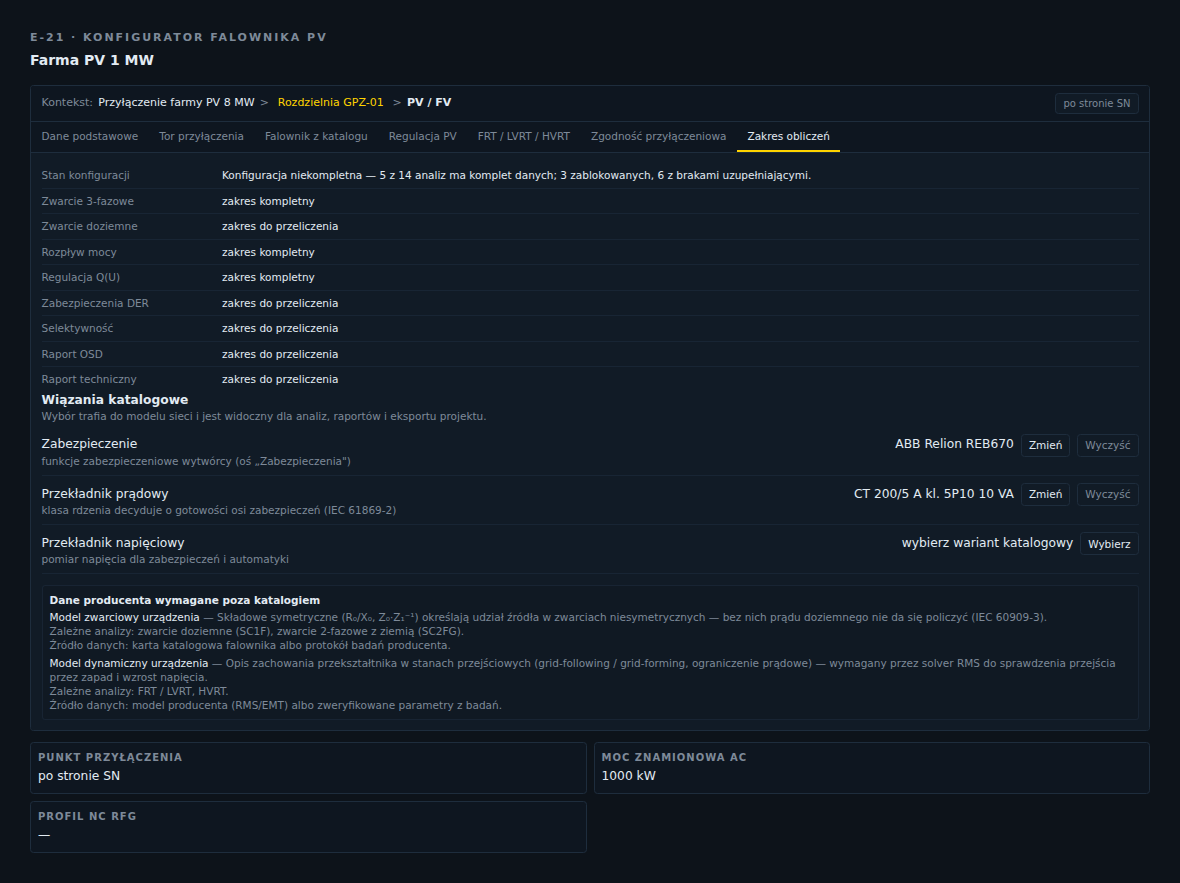
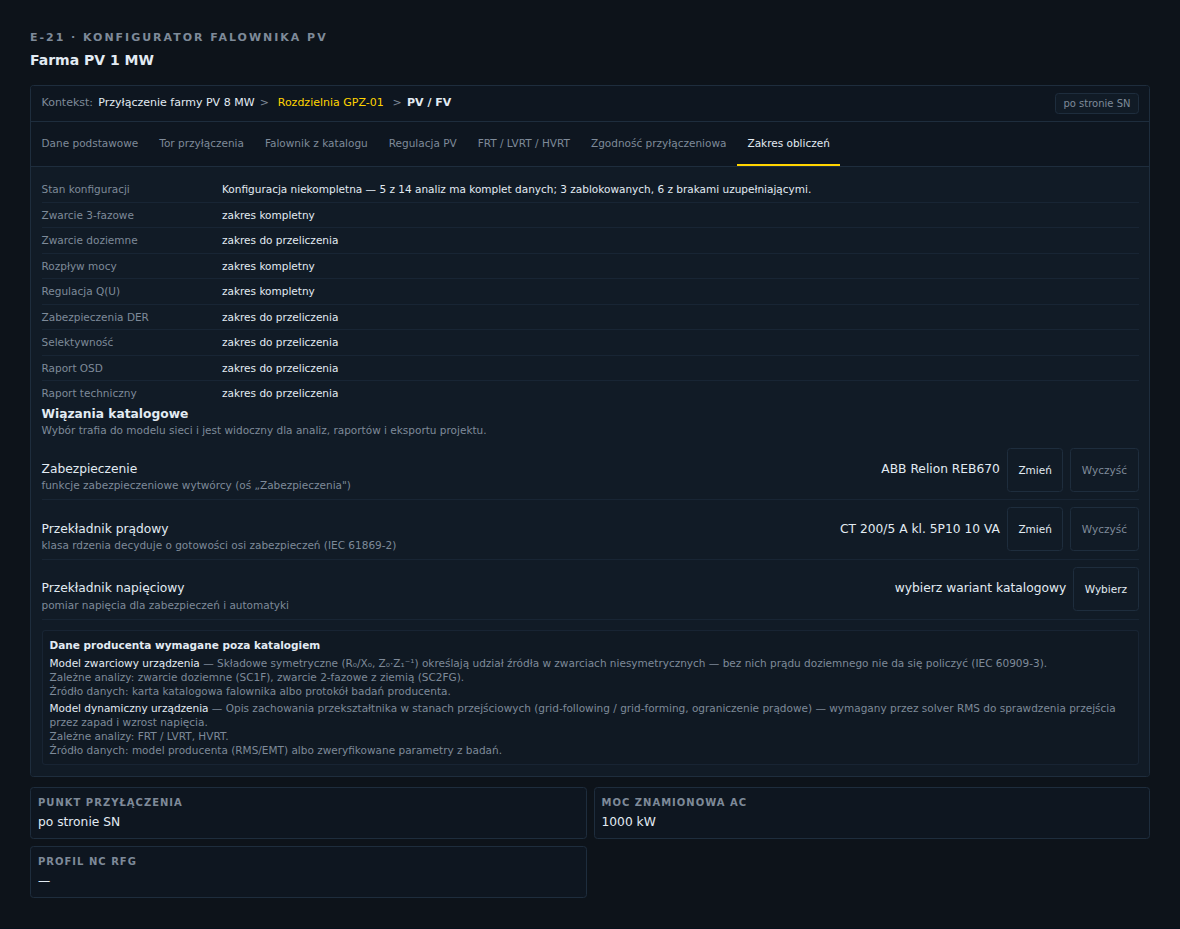
fix(E-21): uklad mobilny powierzchni wytworcy (karta E21-5)
Audyt E-21 pkt P12: powierzchnie E-2x budowaly tabele o stalej szerokosci kolumn
i cele dotykowe ponizej progu — ekran na telefonie byl nieczytelny. Zakres zmiany
to WYLACZNIE uklad: zadna tresc, etykieta, kolejnosc pol ani nazwa test-id nie
zostala zmieniona; regul gotowosci i backendu nie ruszano.

CO ZMIENIONE
- `workspace/surfaces/DerSurfaces.tsx` (`FieldRow`): siatka `grid-cols-1` na
  waskim ekranie (etykieta nad wartoscia, pelna szerokosc), powrot do
  `sm:grid-cols-[170px_1fr]` od 640 px; wartosc lamie dlugie ciagi (`break-words`).
- `network-build/der-configurator/DerConfigurator.tsx`: zakladki kart maja prog
  dotykowy `min-h-[44px]` i `shrink-0`, wiec pasek (`overflow-x-auto`, bez zmian)
  przewija sie poziomo zamiast sciskac etykiety.
- `network-build/station-der/DerWiazaniaEditor.tsx`: przyciski „Wybierz/Zmien/
  Wyczysc" 44 x 44 px (`min-h`/`min-w` + wiekszy padding), napisy bez zmian.
- `creator-harness-main.tsx`: kadr sceny dostaje `maxWidth: 100%`. Bez tego sam
  harness (staly kadr 1180 px) przewijal strone w bok w widoku telefonu i tabletu
  i nie dalo sie zmierzyc badanej powierzchni. Przy zrzutach desktopowych
  (>= 1220 px) ograniczenie nie dziala — kadr zostaje 1180/1400, zrzuty bez zmian
  geometrii.
- Kafle KPI juz byly `grid-cols-1 md:grid-cols-2 xl:grid-cols-3` — sprawdzone
  zrzutem: na 390 px jedna kolumna, na 768 px dwie. Bez zmiany kodu.

DOWOD
Nowy test `e2e/creator-screenshot.spec.ts` — „wiazania OZE — uklad dotykowy
[…]

diff --git a/mv-design-pro/frontend/e2e/creator-screenshot.spec.ts b/mv-design-pro/frontend/e2e/creator-screenshot.spec.ts
@@ -276,6 +276,136 @@ test.describe('kreatory:screenshot', () => {
     expect(errs, 'no console/page errors for wiazania').toEqual([]);
   });
 
+  // Układ mobilny powierzchni wytwórcy (karta E21-5, audyt E-21 pkt P12).
+  //
+  // BRAMKA MIERZY UKŁAD, NIE TREŚĆ. Zrzut ładnego ekranu na telefonie nic nie dowodzi,
+  // dopóki nie wiadomo, że (1) strona nie ucieka w bok, (2) w cel dotykowy da się
+  // trafić palcem (44×44 px wg WCAG 2.5.5 / wytycznych platform) i (3) wiersze pól
+  // faktycznie łamią się na telefonie, a na tablecie wracają do układu dwukolumnowego.
+  // Wszystkie trzy sprawdzenia czytają REALNĄ geometrię wyrenderowanego ekranu
+  // (`boundingBox`, `scrollWidth`), a nie klasy CSS — regresja układu ma być widoczna
+  // niezależnie od tego, którą klasą ktoś ją wprowadzi.
+  const WIDOKI_DOTYKOWE = [
+    { wariant: 'mobile', width: 390, height: 844, ukladPionowy: true },
+    { wariant: 'tablet', width: 768, height: 1024, ukladPionowy: false },
+  ] as const;
+
+  for (const widok of WIDOKI_DOTYKOWE) {
+    test(`wiazania OZE — uklad dotykowy (${widok.wariant})`, async ({ page }) => {
+      const errs: string[] = [];
+      const isNoise = (t: string): boolean =>
+        /favicon|Download the React DevTools|Failed to load resource/i.test(t);
+      page.on('console', (m) => {
+        if (m.type() === 'error' && !isNoise(m.text())) errs.push(m.text());
+      });
+      page.on('pageerror', (e) => errs.push(`PAGEERROR: ${e.message}`));
+
+      await page.setViewportSize({ width: widok.width, height: widok.height });
+      await page.goto(`${HARNESS_URL}?creator=wiazania&theme=dark`, {
+        waitUntil: 'domcontentloaded',
+        timeout: 40000,
+      });
+      const root = page.locator('[data-testid="creator-harness-root"]').first();
+      await expect(root).toHaveAttribute('data-status', 'ready', { timeout: 15000 });
+
+      // Zakładki kart są przewijane poziomo we WŁASNYM pasku — dostęp do karty
+      // „Gotowość" nie może wymagać przewijania całej strony.
+      await page.getByTestId('der-card-tab-readiness').click();
+      await expect(page.getByTestId('der-wiazania-editor')).toBeVisible();
+
+      // (1) Strona jako całość NIE przewija się poziomo.
+      const poziom = await page.evaluate(() => ({
+        scrollWidth: document.documentElement.scrollWidth,
+        innerWidth: window.innerWidth,
+      }));
+      expect(
+        poziom.scrollWidth,
+        `strona przewija sie poziomo (${poziom.scrollWidth} > ${poziom.innerWidth}) w widoku ${widok.wariant}`,
+      ).toBeLessThanOrEqual(poziom.innerWidth + 1);
+
+      // (2) Próg dotykowy przycisku wyboru wiązania: 44 × 44 px.
+      const przyciskWyboru = page.getByTestId('der-wiazanie-wybierz-vt_catalog_ref');
+      const celDotykowy = await przyciskWyboru.boundingBox();
+      expect(celDotykowy, 'przycisk wyboru wiazania musi byc widoczny').not.toBeNull();
+      expect(
+        celDotykowy!.height,
+        `wysokosc celu dotykowego w widoku ${widok.wariant}`,
+      ).toBeGreaterThanOrEqual(44);
+      expect(
+        celDotykowy!.width,
+        `szerokosc celu dotykowego w widoku ${widok.wariant}`,
+      ).toBeGreaterThanOrEqual(44);
+
+      // (3) Zakładka karty też jest celem dotykowym.
+      const zakladka = await page.getByTestId('der-card-tab-readiness').boundingBox();
+      expect(zakladka, 'zakladka karty musi byc widoczna').not.toBeNull();
+      expect(
+        zakladka!.height,
+        `wysokosc zakladki karty w widoku ${widok.wariant}`,
+      ).toBeGreaterThanOrEqual(44);
+
+      // (3a) Pasek zakładek przewija się WE WŁASNYM zakresie. Samo sprawdzenie „strona
+      // nie przewija się w bok" tego nie łapie: panel karty jest kontenerem
+      // przewijanym, więc pasek bez własnego `overflow-x` po prostu przesuwa razem ze
+      // sobą treść karty — dojście do ostatniej zakładki zjeżdża całym ekranem w bok,
+      // a strona pozostaje „czysta". Mierzymy więc zachowanie: gdy zakładki są szersze
+      // niż pasek, pasek MUSI dać się przewinąć sam.
+      const pasekZakladek = page.getByTestId('pv-source-surface').locator('nav[role="tablist"]').first();
+      const przewijaniePaska = await pasekZakladek.evaluate((el) => {
+        const przed = el.scrollLeft;
+        el.scrollLeft = el.scrollWidth;
+        const poPrzewinieciu = el.scrollLeft;
+        el.scrollLeft = przed;
+        return { tresc: el.scrollWidth, okno: el.clientWidth, poPrzewinieciu };
+      });
+      if (przewijaniePaska.tresc > przewijaniePaska.okno) {
+        expect(
+          przewijaniePaska.poPrzewinieciu,
+          'pasek zakladek musi przewijac sie sam (inaczej przewija sie cala karta)',
+        ).toBeGreaterThan(0);
+      }
+
+      // (3b) Dojście do zakładki nie może wypchnąć treści karty poza lewą krawędź.
+      const trescKarty = await page.getByTestId('der-card-content-readiness').boundingBox();
+      expect(trescKarty, 'tresc karty musi byc widoczna').not.toBeNull();
+      expect(
+        trescKarty!.x,
+        'tresc karty zostala przesunieta w bok przy dojsciu do zakladki',
+      ).toBeGreaterThanOrEqual(-1);
+
+      // (4) Wiersz pola: etykieta NAD wartością na telefonie, obok wartości na tablecie.
+      const wiersz = page.locator('div:has(> dt:text-is("Stan konfiguracji"))').first();
+      const etykieta = await wiersz.locator('dt').boundingBox();
+      const wartosc = await wiersz.locator('dd').boundingBox();
+      expect(etykieta, 'etykieta wiersza musi byc widoczna').not.toBeNull();
+      expect(wartosc, 'wartosc wiersza musi byc widoczna').not.toBeNull();
+      if (widok.ukladPionowy) {
+        expect(
+          wartosc!.y,
+          'na telefonie wartosc stoi PONIZEJ etykiety (uklad jednokolumnowy)',
+        ).toBeGreaterThanOrEqual(etykieta!.y + etykieta!.height - 1);
+      } else {
+        expect(
+          wartosc!.x,
+          'na tablecie wartosc stoi OBOK etykiety (uklad dwukolumnowy)',
+        ).toBeGreaterThan(etykieta!.x + etykieta!.width - 1);
+        expect(
+          Math.abs(wartosc!.y - etykieta!.y),
+          'na tablecie etykieta i wartosc sa w tym samym wierszu',
+        ).toBeLessThanOrEqual(2);
+      }
+
+      await page.waitForTimeout(300);
+      await page.screenshot({
+        path: path.join(OUTPUT_DIR, `wiazania_oze_${widok.wariant}.png`),
+        fullPage: true,
+      });
+
+      if (errs.length > 0) console.log(`[wiazania/${widok.wariant}] errors:\n${errs.join('\n')}`);
+      expect(errs, `no console/page errors for wiazania/${widok.wariant}`).toEqual([]);
+    });
+  }
+
   // Wykres teorii odbioru (trójkąt mocy) (V12K-069). GPZ (WykresSztywnosci) pokryty
   // testem jednostkowym; zrzut w harnessie wymaga pełniejszego zaszczepienia kontekstu
   // 7-krokowego kreatora GPZ (depth backlog standardu).

diff --git a/mv-design-pro/frontend/src/ui/network-build/station-der/DerWiazaniaEditor.tsx b/mv-design-pro/frontend/src/ui/network-build/station-der/DerWiazaniaEditor.tsx
@@ -198,7 +198,7 @@ export function DerWiazaniaEditor({
               </span>
               <button
                 type="button"
-                className="rounded border border-scada-border px-2 py-1 text-xs text-scada-text hover:bg-scada-surface disabled:opacity-50"
+                className="flex min-h-[44px] min-w-[44px] items-center justify-center rounded border border-scada-border px-3 py-2 text-xs text-scada-text hover:bg-scada-surface disabled:opacity-50"
                 disabled={!kontekstKompletny || zapisywane !== null}
                 onClick={() => setOtwartyPicker(wiazanie)}
                 data-testid={`der-wiazanie-wybierz-${wiazanie.pole}`}
@@ -208,7 +208,7 @@ export function DerWiazaniaEditor({
               {ref !== null && (
                 <button
                   type="button"
-                  className="rounded border border-scada-border px-2 py-1 text-xs text-scada-muted hover:bg-scada-surface disabled:opacity-50"
+                  className="flex min-h-[44px] min-w-[44px] items-center justify-center rounded border border-scada-border px-3 py-2 text-xs text-scada-muted hover:bg-scada-surface disabled:opacity-50"
                   disabled={!kontekstKompletny || zapisywane !== null}
                   onClick={() => void zapisz(wiazanie.pole, null)}
                   data-testid={`der-wiazanie-wyczysc-${wiazanie.pole}`}

diff --git a/mv-design-pro/frontend/src/ui/workspace/surfaces/DerSurfaces.tsx b/mv-design-pro/frontend/src/ui/workspace/surfaces/DerSurfaces.tsx
@@ -609,11 +609,17 @@ function ptpireeSourceSummary(): string {
   return `${getPtpireeSourceRecordCount()} pozycji źródłowych PTPiREE`;
 }
 
+/**
+ * Wiersz pola: etykieta NAD wartością na wąskim ekranie, obok wartości od `sm` w górę
+ * (karta E21-5, audyt E-21 pkt P12). Sztywna kolumna 170 px na telefonie zostawiała
+ * wartościom kilkadziesiąt pikseli i wypychała treść poza ekran — układ tabelaryczny
+ * wraca dopiero tam, gdzie jest na niego miejsce. Treść, kolejność i etykiety bez zmian.
+ */
 function FieldRow({ label, value }: { readonly label: string; readonly value: string }) {
   return (
-    <div className="grid grid-cols-[170px_1fr] gap-3 border-b border-scada-border/60 py-1.5 last:border-b-0">
+    <div className="grid grid-cols-1 gap-0.5 border-b border-scada-border/60 py-1.5 last:border-b-0 sm:grid-cols-[170px_1fr] sm:gap-3">
       <dt className="text-scada-muted">{label}</dt>
-      <dd className="font-medium text-scada-text">{value}</dd>
+      <dd className="break-words font-medium text-scada-text">{value}</dd>
     </div>
   );
 }

diff --git a/mv-design-pro/frontend/src/ui/network-build/der-configurator/DerConfigurator.tsx b/mv-design-pro/frontend/src/ui/network-build/der-configurator/DerConfigurator.tsx
@@ -211,7 +211,10 @@ export function DerConfigurator(props: DerConfiguratorProps): JSX.Element {
             aria-selected={activeCard === id}
             onClick={() => setActiveCard(id)}
             className={
-              'whitespace-nowrap px-3 py-2 text-xs font-medium transition-colors '
+              // Próg dotykowy 44 px i brak kurczenia zakładek: pasek przewija się
+              // poziomo (overflow-x-auto na `nav`), zamiast ściskać etykiety do
+              // nieczytelnych kikutów na telefonie (karta E21-5).
+              'flex min-h-[44px] shrink-0 items-center whitespace-nowrap px-3 py-2 text-xs font-medium transition-colors '
               + (activeCard === id
                 ? 'border-b-2 border-scada-sn text-scada-text'
                 : 'border-b-2 border-transparent text-scada-muted hover:text-scada-text')

diff --git a/mv-design-pro/frontend/src/creator-harness-main.tsx b/mv-design-pro/frontend/src/creator-harness-main.tsx
@@ -3336,6 +3336,11 @@ function Harness() {
         ].includes(creator)
           ? 1400
           : 1180,
+        // Kadr zrzutu NIE MOŻE być szerszy od okna, inaczej scena telefonu/tabletu
+        // przewijałaby się poziomo z powodu samego harnessu i nie dałoby się zmierzyć,
+        // czy przewija się badana powierzchnia (karta E21-5). Przy szerokościach
+        // zrzutów desktopowych (≥1220 px) ograniczenie nie działa — kadr zostaje 1180/1400.
+        maxWidth: '100%',
         minHeight: 800,
         padding: 16,
         background: 'var(--mvd-bg, #07111c)',
